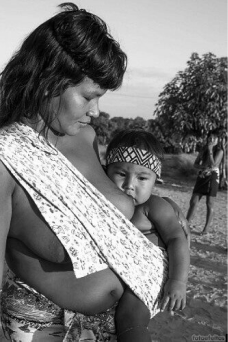
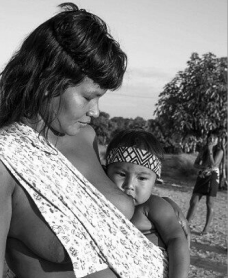
updates

diff --git a/src/components/Carousel/CarroselLactantes.js b/src/components/Carousel/CarroselLactantes.js
@@ -47,16 +47,16 @@ function Item(props) {
         style={{
           backgroundColor: "#C7CBF3",
           width: "50%",
-          height: "22rem",
+          height: "20rem",
           display: "flex",
           flexDirection: "column",
           justifyContent: "space-between",
           alignItems: "center",
-         
+       
          
         }}
       >
-        <div style={{ paddingTop: "40px" 
+        <div style={{ paddingTop: "30px" 
           }}>{props.item.img}</div>
        
       </Paper>

diff --git a/src/components/Carousel/styles.css b/src/components/Carousel/styles.css
@@ -33,14 +33,16 @@
     height: 150px;
   }
   .imagemaes{
-    width:100%;
-    height:80%;
+    width:110%;
+    height:100%;
   }
   .carrosel_mobile {
    display: none;
+
    @media screen and (max-width: 768px){
-    display: block;
-    width: 163%;
+    
+    display: flex;
+    justify-content: center;
  
   }
    

diff --git a/src/pages/Home/index.js b/src/pages/Home/index.js
@@ -21,7 +21,9 @@ const Home = () => {
       </div>
       <div>
         <ImgsGroup />
-        <CarroselLactantes/>
+      </div>
+      <div>
+      <CarroselLactantes/>
       </div>
       <div>
         <br/>
